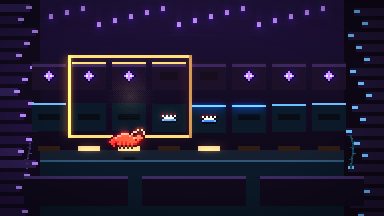
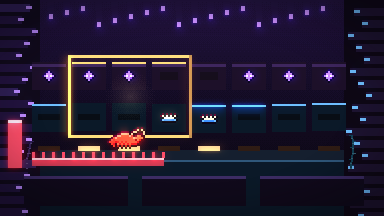
feat: make the pier, flood, clock, and gorge readable
The step button sits in the water under the planks. The flood is
visible before it arrives. The clock hand sweeps the slot it turned.
The spikes cross a gorge with walls, a fall, and mist.

Changed region(s): [[0.0, 0.5278, 0.4375, 0.8056], [0.0625, 0.4722, 0.1875, 0.5]]

diff --git a/web/src/games/claw-flip.ts b/web/src/games/claw-flip.ts
@@ -1,7 +1,7 @@
 import { definition } from '@games/claw-flip/src/definition';
 import { type FlipState, isSafe } from '@games/claw-flip/src/engine';
 import type { Grade } from '../gfx/art';
-import { sky } from '../gfx/backdrop';
+import { fog, godRays, sky } from '../gfx/backdrop';
 import { glow } from '../gfx/fx';
 import { ctx2d, hash01, makeCanvas, rect, VH, VW, withAlpha } from '../gfx/pixel';
 import { type GameModule, type GameScene, type HitRegion, say } from '../gfx/scene';
@@ -40,20 +40,34 @@ function cliffs(): HTMLCanvasElement {
   if (gorge) return gorge;
   const c = makeCanvas(VW, VH);
   const g = ctx2d(c);
-  sky(g, ['#1a3830', '#0c2018', '#081410'], 0, VH, 8);
-  for (let y = 0; y < 170; y += 8) {
-    const w = 28 + ((y * 5) % 26);
-    rect(g, 0, y, w, 6, y % 16 === 0 ? '#245040' : '#1a3028');
-    rect(g, VW - w, y + 3, w, 6, '#143028');
+  sky(g, ['#163028', '#0c1814', '#081018'], 0, VH, 8);
+  rect(g, 72, 24, VW - 144, 150, '#061410');
+  rect(g, 176, 8, 10, 150, '#143048');
+  rect(g, 180, 8, 3, 150, '#7ec8ff');
+  for (let y = 20; y < 150; y += 8) rect(g, 184, y, 6, 2, withAlpha('#fff6dc', 0.35));
+  for (let y = 0; y < 168; y += 8) {
+    const left = 56 + ((y * 7) % 22);
+    const right = 52 + ((y * 5) % 24);
+    rect(g, 0, y, left, 7, y % 16 === 0 ? '#2a5840' : '#1a3028');
+    rect(g, left - 6, y, 6, 3, '#3a6848');
+    rect(g, VW - right, y, right, 7, '#143028');
+    rect(g, VW - right, y + 3, 5, 2, '#245040');
     if (y % 24 === 0) {
-      rect(g, w - 2, y, 2, 16, '#3a6848');
-      rect(g, VW - w, y + 4, 2, 14, '#2a5840');
+      rect(g, left - 4, y, 3, 18, '#3a6848');
+      rect(g, VW - right - 2, y, 3, 16, '#2a5840');
     }
   }
-  rect(g, 0, 156, VW, 60, '#0a1814');
-  rect(g, 0, 156, VW, 4, '#1a4060');
-  for (let i = 0; i < 24; i += 1) {
-    rect(g, hash01(i, 3) * VW, 164 + hash01(i, 4) * 40, 10, 2, withAlpha('#7ec8ff', 0.35));
+  for (let x = 80; x < 300; x += 18) {
+    const h = 8 + (x % 22);
+    rect(g, x, 0, 6, h, '#1a3028');
+    rect(g, x + 1, h, 4, 4, '#3a6848');
+  }
+  rect(g, 64, 148, VW - 128, 8, '#3a2414');
+  rect(g, 64, 148, VW - 128, 2, '#c4a060');
+  rect(g, 0, 168, VW, 48, '#061018');
+  rect(g, 0, 168, VW, 3, '#1a4060');
+  for (let i = 0; i < 18; i += 1) {
+    rect(g, 70 + hash01(i, 3) * 240, 176 + hash01(i, 4) * 28, 12, 2, withAlpha('#7ec8ff', 0.4));
   }
   gorge = c;
   return c;
@@ -77,6 +91,8 @@ function createScene(): GameScene<FlipState> {
     draw(f) {
       const { g, t, state } = f;
       g.drawImage(cliffs(), 0, 0);
+      godRays(g, t, '#c8ffd8', 3, 0.05);
+      fog(g, t, 128, 22, '#9ec8ff', 0.22, 8);
       for (let x = 0; x < VW; x += 16) {
         const y = 166 + Math.round(Math.sin(t * 1.6 + x * 0.05) * 2);
         rect(g, x, y, 10, 2, withAlpha('#7ec8ff', 0.35));

diff --git a/web/src/games/claw-clock.ts b/web/src/games/claw-clock.ts
@@ -25,6 +25,7 @@ const GEAR: SpriteDef = {
 };
 
 let chamber: HTMLCanvasElement | null = null;
+let spun = 0;
 
 function tower(): HTMLCanvasElement {
   if (chamber) return chamber;
@@ -85,8 +86,9 @@ function createScene(): GameScene<ClockState> {
       const spin = Math.floor(t * 2) % 2;
       blit(g, gear, 48, 48 + spin, { scale: 2, anchor: 'c' });
       blit(g, gear, 336, 160 - spin, { scale: 2, anchor: 'c' });
+      const slide = spun * Math.max(0, 1 - f.since / 0.45) * ((Math.PI * 2) / 8);
       state.ring.forEach((token, index) => {
-        const angle = (index / 8) * Math.PI * 2 - Math.PI / 2;
+        const angle = (index / 8) * Math.PI * 2 - Math.PI / 2 - slide;
         const x = 192 + Math.round(Math.cos(angle) * 52);
         const y = 100 + Math.round(Math.sin(angle) * 52);
         const bob = Math.round(Math.sin(t * 3 + index) * 1);
@@ -97,12 +99,19 @@ function createScene(): GameScene<ClockState> {
         else disc(g, x, y, 4, '#2a2430');
       });
       state.ring.forEach((_token, index) => {
-        const angle = (index / 8) * Math.PI * 2 - Math.PI / 2;
+        const angle = (index / 8) * Math.PI * 2 - Math.PI / 2 - slide;
         const x = 192 + Math.round(Math.cos(angle) * 74);
         const y = 100 + Math.round(Math.sin(angle) * 74);
         drawText(g, String(index + 1), x, y - 4, { color: '#e8d0a0', align: 'center' });
       });
       const hand = (state.hand / 8) * Math.PI * 2 - Math.PI / 2;
+      const slot = (Math.PI * 2) / 8;
+      for (let i = 0; i <= 7; i += 1) {
+        const angle = hand - slot + (slot * i) / 7;
+        const x = 192 + Math.round(Math.cos(angle) * 34);
+        const y = 100 + Math.round(Math.sin(angle) * 34);
+        rect(g, x, y, 3, 3, i === 7 ? '#fff6dc' : '#ffc24a');
+      }
       for (let r = 8; r <= 40; r += 4) {
         const x = 192 + Math.round(Math.cos(hand) * r);
         const y = 100 + Math.round(Math.sin(hand) * r);
@@ -120,6 +129,8 @@ function createScene(): GameScene<ClockState> {
       });
     },
     react(f, outcome) {
+      const kind = String(outcome.events[0]?.type ?? '');
+      spun = kind === 'rotate:1' ? 1 : kind === 'rotate:-1' ? -1 : 0;
       const tick = outcome.events.find((event) => event.type === 'tick');
       if (!tick) return;
       const wounded = outcome.result.log.some((line) => line.includes('击中了你'));

diff --git a/web/src/games/claw-count.ts b/web/src/games/claw-count.ts
@@ -79,7 +79,7 @@ function createScene(): GameScene<CountState> {
       if (state.outcome !== 'ongoing') return [];
       const regions: HitRegion[] = [];
       const step = actions.find((action) => action.id === 'step');
-      if (step) regions.push({ x: 250, y: 150, w: 110, h: 48, actionId: 'step' });
+      if (step) regions.push({ x: 142, y: 184, w: 100, h: 28, actionId: 'step' });
       const magnet = actions.find((action) => action.id === 'magnet');
       if (magnet) regions.push({ x: 8, y: 148, w: 56, h: 48, actionId: 'magnet' });
       actions
@@ -147,9 +147,9 @@ function createScene(): GameScene<CountState> {
       const step = say(f, '迈步');
       if (step && f.actions.some((action) => action.id === 'step')) {
         const on = f.focus?.id === 'step';
-        rect(g, 262, 164, 100, 34, on ? '#3a3020' : '#1a140c');
-        rect(g, 262, 164, 100, 3, '#ffc24a');
-        drawText(g, step, 312, 174, { color: '#fff4d6', align: 'center' });
+        rect(g, 142, 188, 100, 22, on ? '#3a3020' : '#1a140c');
+        rect(g, 142, 188, 100, 2, '#ffc24a');
+        drawText(g, step, 192, 192, { color: '#fff4d6', align: 'center' });
       }
       drawText(g, String(state.magnets), 44, 150, { color: '#ff5d73', align: 'left' });
     },

diff --git a/web/src/games/claw-mask.ts b/web/src/games/claw-mask.ts
@@ -102,13 +102,15 @@ function createScene(): GameScene<MaskState> {
       const px = state.pos < 0 ? 18 : 49 + state.pos * 40;
       shadow(g, px, 158, 14);
       blit(g, shrimp, px, 150 + Math.round(Math.sin(t * 3)), { scale: 2, anchor: 'bc' });
-      if (state.flood >= 0) {
-        const w = Math.min(8, state.flood + 1) * 40;
-        const pulse = Math.round(Math.sin(t * 6) * 2);
-        rect(g, 32, 160 + pulse, w, 8, '#ff5d73');
-        rect(g, 32, 160 + pulse, w, 2, '#ffd0d4');
-        for (let i = 0; i < w; i += 8) rect(g, 32 + i, 156 + pulse, 3, 4, '#ff5d73');
-      }
+      const rise = state.flood + 4;
+      const gauge = Math.max(12, rise * 16);
+      rect(g, 8, 168 - gauge, 14, gauge, '#ff5d73');
+      rect(g, 8, 168 - gauge, 14, 3, '#ffd0d4');
+      const lip = Math.min(VW - 48, 24 + rise * 36);
+      const pulse = Math.round(Math.sin(t * 6) * 2);
+      rect(g, 32, 160 + pulse, lip, 8, '#c44860');
+      rect(g, 32, 160 + pulse, lip, 2, '#ffd0d4');
+      for (let i = 0; i < lip; i += 10) rect(g, 32 + i, 154 + pulse, 3, 6, '#ff5d73');
       f.actions
         .filter((action) => action.id === 'step' || action.id.startsWith('mask:'))
         .forEach((action, index) => {

diff --git a/docs/plans/2026-11-15-path-read.md b/docs/plans/2026-11-15-path-read.md
@@ -1,0 +1,19 @@
+# Path readability — 虾数, 虾罩, 虾钟, 虾拨
+
+## Goal
+
+The live play of these four showed one readable hole each. Fix the picture. Engines stay.
+
+## Scope
+
+- 虾数: the step button sits in the water, under the planks, so the last two planks stay visible.
+- 虾罩: the flood is a pool and a rising gauge from the first frame, including while `flood` is still negative.
+- 虾钟: the hand leaves a swept arc, and a rotate eases the tokens by one slot.
+- 虾拨: the gorge is rock walls, a fall, mist, and vines, with the spikes on a bridge across it.
+
+## Checklist
+
+- [x] Four scenes
+- [x] Covers
+- [x] lint, typecheck
+- [x] Dev server: open each and confirm the hole is gone

diff --git a/docs/plans/README.md b/docs/plans/README.md
@@ -3,7 +3,8 @@
 Write a new plan here before a large change: a new game, an engine rewrite, an
 MCP or leaderboard change, or a docs restructure.
 
-Current working plans: [`2026-11-15-raft-stow-feel.md`](2026-11-15-raft-stow-feel.md),
+Current working plans: [`2026-11-15-path-read.md`](2026-11-15-path-read.md),
+[`2026-11-15-raft-stow-feel.md`](2026-11-15-raft-stow-feel.md),
 [`2026-11-15-ferry-depth.md`](2026-11-15-ferry-depth.md),
 [`2026-11-15-reef-lamp-feel.md`](2026-11-15-reef-lamp-feel.md),
 [`2026-11-14-jam-art-path.md`](2026-11-14-jam-art-path.md),

diff --git a/CHANGELOG.md b/CHANGELOG.md
@@ -2,6 +2,9 @@
 
 ## Unreleased
 
+- `虾数` puts the step button in the water, under the planks. `虾罩` shows
+  the flood before it reaches you. `虾钟` sweeps the hand across the slot it
+  just turned. `虾拨` crosses a gorge with walls, a fall, and mist.
 - `虾筏 (Claw Raft)` and `虾仓 (Claw Stow)` now play on bespoke boards.
   The raft shows this gust and the next one; a crate on the side it does not
   prefer leans the next gust by 1. Stow shows the next three slips, and a
